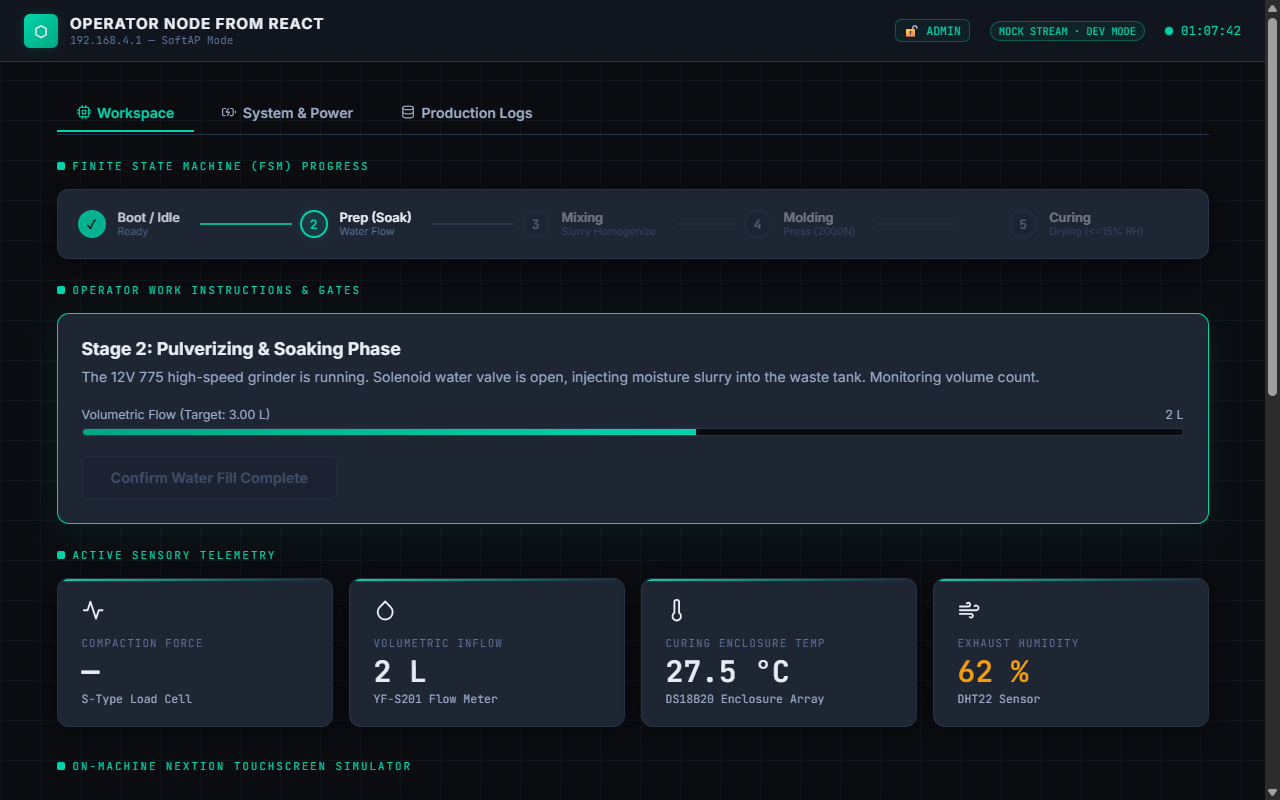
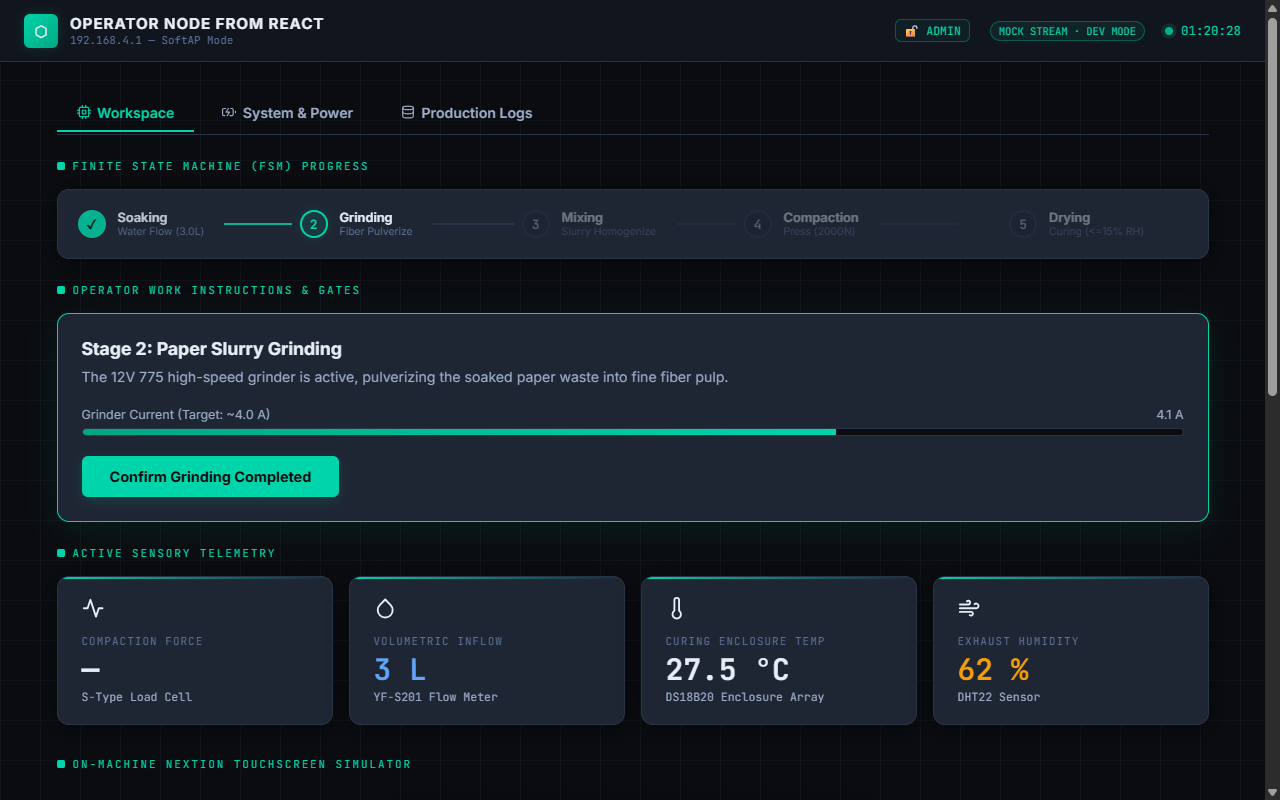
fix: Update FSM flow to separate Soaking and Grinding phases, and regenerate mockups

diff --git a/operator-node/dashboard/src/App.jsx b/operator-node/dashboard/src/App.jsx
@@ -51,11 +51,11 @@ const BOOT_LOG = [
 ];
 
 const FSM_STEPS = [
-  { num: 1, name: 'Boot / Idle', desc: 'Ready' },
-  { num: 2, name: 'Prep (Soak)', desc: 'Water Flow' },
+  { num: 1, name: 'Soaking', desc: 'Water Flow (3.0L)' },
+  { num: 2, name: 'Grinding', desc: 'Fiber Pulverize' },
   { num: 3, name: 'Mixing', desc: 'Slurry Homogenize' },
-  { num: 4, name: 'Molding', desc: 'Press (2000N)' },
-  { num: 5, name: 'Curing', desc: 'Drying (<=15% RH)' }
+  { num: 4, name: 'Compaction', desc: 'Press (2000N)' },
+  { num: 5, name: 'Drying', desc: 'Curing (<=15% RH)' }
 ];
 
 // Mock historical logs for tab 3
@@ -266,23 +266,9 @@ export default function App() {
             <div className="prompt-card active-step">
               {stats?.active_state === 1 && (
                 <>
-                  <div className="prompt-title">Stage 1: System Boot & Idle Checks</div>
+                  <div className="prompt-title">Stage 1: Paper Soaking Phase</div>
                   <p className="prompt-desc">
-                    Machine diagnostics completed successfully. Solar power bank is active. Please load raw paper waste and water slurry (1:1 weight ratio) into the hopper to begin.
-                  </p>
-                  <button
-                    className="action-btn"
-                    onClick={() => sendCommand('SET_STATE', { state: 2 })}
-                  >
-                    <FiPlay /> Start Run (Load Slurry)
-                  </button>
-                </>
-              )}
-              {stats?.active_state === 2 && (
-                <>
-                  <div className="prompt-title">Stage 2: Pulverizing & Soaking Phase</div>
-                  <p className="prompt-desc">
-                    The 12V 775 high-speed grinder is running. Solenoid water valve is open, injecting moisture slurry into the waste tank. Monitoring volume count.
+                    Solenoid water valve is open, injecting moisture into the waste tank to soak the raw paper waste. Monitoring water volume intake. Target: 3.00 L.
                   </p>
                   <div className="gauge-wrap">
                     <div className="gauge-label">
@@ -296,15 +282,38 @@ export default function App() {
                   <button
                     className="action-btn"
                     disabled={parseFloat(stats?.sensors?.volumetric_flow_l) < 3.0}
-                    onClick={() => sendCommand('SET_STATE', { state: 3 })}
+                    onClick={() => sendCommand('SET_STATE', { state: 2 })}
                   >
                     Confirm Water Fill Complete
                   </button>
                 </>
               )}
+              {stats?.active_state === 2 && (
+                <>
+                  <div className="prompt-title">Stage 2: Paper Slurry Grinding</div>
+                  <p className="prompt-desc">
+                    The 12V 775 high-speed grinder is active, pulverizing the soaked paper waste into fine fiber pulp.
+                  </p>
+                  <div className="gauge-wrap">
+                    <div className="gauge-label">
+                      <span>Grinder Current (Target: ~4.0 A)</span>
+                      <span>{stats?.sensors?.grinder_current_a || 0} A</span>
+                    </div>
+                    <div className="gauge-track">
+                      <div className="gauge-fill" style={{ width: `${Math.min(100, ((stats?.sensors?.grinder_current_a || 0) / 6) * 100)}%` }} />
+                    </div>
+                  </div>
+                  <button
+                    className="action-btn"
+                    onClick={() => sendCommand('SET_STATE', { state: 3 })}
+                  >
+                    Confirm Grinding Completed
+                  </button>
+                </>
+              )}
               {stats?.active_state === 3 && (
                 <>
-                  <div className="prompt-title">Stage 3: Mixing & Homogenization</div>
+                  <div className="prompt-title">Stage 3: Slurry & Charcoal Mixing</div>
                   <p className="prompt-desc">
                     PLANETARY MIXER MOTOR ACTIVE. The mechanical mixer is blending the charcoal dust binder with the lignocellulosic paper pulp slurry. Please ensure even consistency.
                   </p>
@@ -318,7 +327,7 @@ export default function App() {
               )}
               {stats?.active_state === 4 && (
                 <>
-                  <div className="prompt-title">Stage 4: Compression & Compaction</div>
+                  <div className="prompt-title">Stage 4: Molding Compaction</div>
                   <p className="prompt-desc">
                     BTS7960 COMPACTOR ACTUATOR DRIVING DOWN. Applying compaction force to mold the rectangular briquette chunk. Keep hands clear! Target: 2000N.
                   </p>
@@ -336,13 +345,13 @@ export default function App() {
                     disabled={stats?.sensors?.compaction_force_n < 2000}
                     onClick={() => sendCommand('SET_STATE', { state: 5 })}
                   >
-                    {stats?.sensors?.compaction_force_n >= 2000 ? 'Target Reached! Confirm Molding' : 'Awaiting 2000N Pressure'}
+                    {stats?.sensors?.compaction_force_n >= 2000 ? 'Target Reached! Confirm Compaction' : 'Awaiting 2000N Pressure'}
                   </button>
                 </>
               )}
               {stats?.active_state === 5 && (
                 <>
-                  <div className="prompt-title">Stage 5: Thermal Curing & Data Log</div>
+                  <div className="prompt-title">Stage 5: Thermal Curing & Drying</div>
                   <p className="prompt-desc">
                     Halogen thermal arrays and exhaust ventilation fans are active. Drying wet briquette structure down to target &lt;= 15% exhaust relative humidity.
                   </p>
@@ -352,7 +361,6 @@ export default function App() {
                       <span>{stats?.sensors?.relative_humidity || 0}%</span>
                     </div>
                     <div className="gauge-track">
-                      {/* Inverse filling bar since we want relative humidity to go down */}
                       <div
                         className={`gauge-fill ${parseFloat(stats?.sensors?.relative_humidity) <= 15 ? 'success' : 'warning'}`}
                         style={{ width: `${Math.max(15, stats?.sensors?.relative_humidity || 0)}%` }}
@@ -442,8 +450,8 @@ export default function App() {
                     <div style={{ display: 'flex', flexDirection: 'column', height: '100%', justifyContent: 'space-between' }}>
                       <div className="nextion-lcd-header">
                         <span>PAGE: {
-                          stats?.active_state === 1 ? 'init' :
-                          stats?.active_state === 2 ? 'soak' :
+                          stats?.active_state === 1 ? 'soak' :
+                          stats?.active_state === 2 ? 'grind' :
                           stats?.active_state === 3 ? 'mix' :
                           stats?.active_state === 4 ? 'mold' : 'dry'
                         }</span>
@@ -452,22 +460,25 @@ export default function App() {
                       
                       <div className="nextion-lcd-body">
                         {stats?.active_state === 1 && (
-                          <div style={{ display: 'flex', flexDirection: 'column', gap: '4px' }}>
-                            <div>[SYSTEM BOOTING...]</div>
-                            <div style={{ color: 'var(--clr-accent)' }}>[✓] LITTLEFS MOUNTED</div>
-                            <div style={{ color: 'var(--clr-accent)' }}>[✓] SD CARD FAT32 ACTIVE</div>
-                            <div style={{ color: 'var(--clr-accent)' }}>[✓] SOFTAP SSID BROADCAST</div>
+                          <div style={{ display: 'flex', flexDirection: 'column', gap: '6px' }}>
+                            <div style={{ display: 'flex', justifyContent: 'space-between' }}>
+                              <span>SOLENOID: <span style={{ color: 'var(--clr-accent)' }}>OPEN</span></span>
+                              <span>GRINDER: <span style={{ color: 'var(--clr-text-2)' }}>OFF</span></span>
+                            </div>
+                            <div>WATER INTAKE: {stats.sensors.volumetric_flow_l} L / 3.00 L</div>
+                            <div className="gauge-track" style={{ height: '6px' }}>
+                              <div className="gauge-fill" style={{ width: `${Math.min(100, (stats.sensors.volumetric_flow_l / 3.00) * 100)}%` }} />
+                            </div>
                           </div>
                         )}
                         {stats?.active_state === 2 && (
                           <div style={{ display: 'flex', flexDirection: 'column', gap: '6px' }}>
                             <div style={{ display: 'flex', justifyContent: 'space-between' }}>
-                              <span>GRINDER: <span style={{ color: stats.sensors.grinder_current_a > 0 ? 'var(--clr-accent)' : 'var(--clr-text-2)' }}>{stats.sensors.grinder_current_a > 0 ? 'RUNNING' : 'OFF'}</span></span>
-                              <span>SOLENOID: <span style={{ color: 'var(--clr-accent)' }}>OPEN</span></span>
+                              <span>GRINDER: <span style={{ color: 'var(--clr-accent)' }}>RUNNING</span></span>
+                              <span>CURRENT: <span style={{ color: 'var(--clr-accent)' }}>{stats.sensors.grinder_current_a} A</span></span>
                             </div>
-                            <div>WATER INTAKE: {stats.sensors.volumetric_flow_l} L / 3.00 L</div>
                             <div className="gauge-track" style={{ height: '6px' }}>
-                              <div className="gauge-fill" style={{ width: `${Math.min(100, (stats.sensors.volumetric_flow_l / 3.00) * 100)}%` }} />
+                              <div className="gauge-fill" style={{ width: `${Math.min(100, (stats.sensors.grinder_current_a / 6.0) * 100)}%` }} />
                             </div>
                           </div>
                         )}
@@ -508,18 +519,18 @@ export default function App() {
                         {stats?.active_state === 1 && (
                           <button
                             className="nextion-btn accent"
+                            disabled={stats.sensors.volumetric_flow_l < 3.0}
                             onClick={() => sendCommand('SET_STATE', { state: 2 })}
                           >
-                            START RUN
+                            SOAK DONE
                           </button>
                         )}
                         {stats?.active_state === 2 && (
                           <button
                             className="nextion-btn accent"
-                            disabled={stats.sensors.volumetric_flow_l < 3.0}
                             onClick={() => sendCommand('SET_STATE', { state: 3 })}
                           >
-                            SOAK DONE
+                            GRIND DONE
                           </button>
                         )}
                         {stats?.active_state === 3 && (

diff --git a/operator-node/dashboard/src/hooks/useStats.js b/operator-node/dashboard/src/hooks/useStats.js
@@ -60,23 +60,22 @@ function updateMockTelemetry(prev, bootTs) {
   // State-specific sensor simulation
   switch (next.active_state) {
     case 1:
-      // Boot / Idle
-      next.sensors.volumetric_flow_l = 0.0;
-      next.sensors.compaction_force_n = 0.0;
+      // Soaking (Water flowing up to 3.0 L)
+      if (next.sensors.volumetric_flow_l < 3.0) {
+        next.sensors.volumetric_flow_l = parseFloat((next.sensors.volumetric_flow_l + 0.25).toFixed(2));
+      } else {
+        next.sensors.volumetric_flow_l = 3.00;
+      }
       next.sensors.grinder_current_a = 0.0;
+      next.sensors.compaction_force_n = 0.0;
       next.sensors.curing_temp_c = 27.5;
       next.sensors.relative_humidity = 62.0;
       break;
 
     case 2:
-      // Prep & Soaking (Grinder active, water flowing)
-      if (next.sensors.volumetric_flow_l < 3.0) {
-        next.sensors.volumetric_flow_l = parseFloat((next.sensors.volumetric_flow_l + 0.25).toFixed(2));
-        next.sensors.grinder_current_a = parseFloat((3.8 + Math.random() * 0.6).toFixed(1));
-      } else {
-        next.sensors.volumetric_flow_l = 3.00;
-        next.sensors.grinder_current_a = 0.0;
-      }
+      // Grinding (Grinder motor active, pulverizing)
+      next.sensors.volumetric_flow_l = 3.00;
+      next.sensors.grinder_current_a = parseFloat((3.8 + Math.random() * 0.6).toFixed(1));
       break;
 
     case 3:
@@ -86,14 +85,14 @@ function updateMockTelemetry(prev, bootTs) {
       break;
 
     case 4:
-      // Compression
+      // Compaction
       if (next.sensors.compaction_force_n < 2000) {
         next.sensors.compaction_force_n = Math.min(2000, next.sensors.compaction_force_n + 150);
       }
       break;
 
     case 5:
-      // Curing
+      // Drying
       if (next.sensors.relative_humidity > 14.5) {
         next.sensors.relative_humidity = parseFloat(Math.max(14.5, next.sensors.relative_humidity - 3.5).toFixed(1));
         next.sensors.curing_temp_c = parseFloat((next.sensors.curing_temp_c + 1.8).toFixed(1));
@@ -211,7 +210,7 @@ export function useStats() {
             next.sensors.curing_temp_c = 27.5;
             next.sensors.relative_humidity = 62.0;
           } else if (payload.state === 2) {
-            next.sensors.volumetric_flow_l = 0.0;
+            next.sensors.volumetric_flow_l = 3.0;
             next.sensors.grinder_current_a = 4.2;
           } else if (payload.state === 3) {
             next.sensors.volumetric_flow_l = 3.0;

diff --git a/docs/Nextion_HMI_Design.md b/docs/Nextion_HMI_Design.md
@@ -19,47 +19,46 @@ This document serves as the UI blueprint for designing the on-machine operator c
 
 Below are the 6 screens to create in the Nextion project:
 
-### Page 0: `init` (Initialization & Boot Diagnostics)
-*   **Purpose:** Displays startup health checklist.
-*   **Visual Layout Mockup:**
-    ```
-    +-------------------------------------------------------------+
-    | [SYSTEM BOOTING...]                                         |
-    |                                                             |
-    |  [✓] LITTLEFS FLASH MOUNTED                                 |
-    |  [✓] SD CARD LOG FILE READY                                 |
-    |  [✓] LOCAL WI-FI AP ACTIVE                                  |
-    |                                                             |
-    |  Loading telemetry framework...                             |
-    +-------------------------------------------------------------+
-    ```
-*   **Component Inventory:**
-    *   `t0` (Text): "System Booting..."
-    *   `t1` to `t3` (Text): Diagnostics list.
-    *   `p0` (Progress Bar): Startup countdown.
-
----
-
-### Page 1: `soak` (Pulverizing & Soaking workspace)
-*   **Purpose:** Allows grinder activation and monitors water volume.
+### Page 0: `soak` (Paper Soaking workspace)
+*   **Purpose:** Monitors liquid levels during initial paper soaking.
 *   **Visual Layout Mockup:**
     ```
     +-------------------------------------------------------------+
     | PREPARATION PHASE (SOAKING)                     [AP ACTIVE] |
     |                                                             |
-    |  GRINDER: [ RUNNING ]                    [ START PULVERIZE ]|
-    |  SOLENOID: [ OPEN ]                      [ STOP PULVERIZE  ]|
+    |  SOLENOID VALVE: [ OPEN ]                                   |
+    |  GRINDER MOTOR: [ OFF ]                                     |
     |                                                             |
     |  WATER FLOW INTAKE:  2.45 L / 3.00 L                        |
     |  [=========PROGRESS BAR=========               ] 81%        |
     +-------------------------------------------------------------+
     ```
 *   **Component Inventory:**
-    *   `b0` (Button): "Start Pulverize" (Sends Serial trigger `grind=1`)
-    *   `b1` (Button): "Stop Pulverize" (Sends Serial trigger `grind=0`)
     *   `t0` (Text): "Water Flow Intake: X.XX L / 3.00 L"
     *   `j0` (Progress Bar): Volumetric flow progress bar.
-    *   `b2` (Button): "Confirm Water Complete" (Unlocked when flow >= 3.0L)
+    *   `b0` (Button): "SOAK DONE" (Unlocked when flow >= 3.0L, sends trigger `state=2`)
+
+---
+
+### Page 1: `grind` (Paper Slurry Grinding workspace)
+*   **Purpose:** Allows grinder activation and monitors current draw.
+*   **Visual Layout Mockup:**
+    ```
+    +-------------------------------------------------------------+
+    | GRINDING PHASE                                  [AP ACTIVE] |
+    |                                                             |
+    |  GRINDER: [ RUNNING ]                    [ START PULVERIZE ]|
+    |  CURRENT DRAW: 4.2 A                     [ STOP PULVERIZE  ]|
+    |                                                             |
+    |  [========================PROGRESS BAR=====================] |
+    +-------------------------------------------------------------+
+    ```
+*   **Component Inventory:**
+    *   `b0` (Button): "Start Pulverize" (Sends Serial trigger `grind=1`)
+    *   `b1` (Button): "Stop Pulverize" (Sends Serial trigger `grind=0`)
+    *   `t0` (Text): "Current Draw: X.X A"
+    *   `j0` (Progress Bar): Grinder current level progress bar.
+    *   `b2` (Button): "GRIND DONE" (Sends Serial trigger `state=3`)
 
 ---
 
@@ -81,7 +80,7 @@ Below are the 6 screens to create in the Nextion project:
     *   `t0` (Text): "Planetary Mixer Motor: ACTIVE"
     *   `t1` (Text): "Timer Remaining: MM:SS"
     *   `j0` (Progress Bar): Count down percentage fill.
-    *   `b0` (Button): "Confirm Mix Complete" (Sends Serial trigger `state=4`)
+    *   `b0` (Button): "MIX DONE" (Sends Serial trigger `state=4`)
 
 ---
 
@@ -90,7 +89,7 @@ Below are the 6 screens to create in the Nextion project:
 *   **Visual Layout Mockup:**
     ```
     +-------------------------------------------------------------+
-    | COMPRESSION PHASE (MOLDING)                 [LIMITS: SAFE]  |
+    | COMPRESSION PHASE (COMPACTION)              [LIMITS: SAFE]  |
     |                                                             |
     |  COMPACTION PRESSURE: 1450 N / 2000 N                       |
     |  [=========================>                   ] 72%        |
@@ -103,11 +102,11 @@ Below are the 6 screens to create in the Nextion project:
     *   `j0` (Progress Bar): Pressure percentage.
     *   `b0` (Button): "Manual Extend" (Sends trigger `actuator=down`)
     *   `b1` (Button): "Manual Retract" (Sends trigger `actuator=up`)
-    *   `b2` (Button): "Confirm Mold" (Unlocked when load >= 2000N)
+    *   `b2` (Button): "CONFIRM MOLD" (Unlocked when load >= 2000N, sends trigger `state=5`)
 
 ---
 
-### Page 4: `dry` (Thermal Curing oven workspace)
+### Page 4: `dry` (Thermal Curing/Drying oven workspace)
 *   **Purpose:** Monitors halogen oven temperature and relative humidity.
 *   **Visual Layout Mockup:**
     ```
@@ -125,7 +124,7 @@ Below are the 6 screens to create in the Nextion project:
     *   `t0` (Text): "Enclosure Temp: XX.X C"
     *   `t1` (Text): "Exhaust Humidity: XX.X %"
     *   `j0` (Progress Bar): Humidity level progress bar (inverse fill).
-    *   `b0` (Button): "Unload Chunk" (Unlocked when RH <= 15%)
+    *   `b0` (Button): "UNLOAD CHUNK" (Unlocked when RH <= 15%, sends trigger `state=1`)
 
 ---
 
